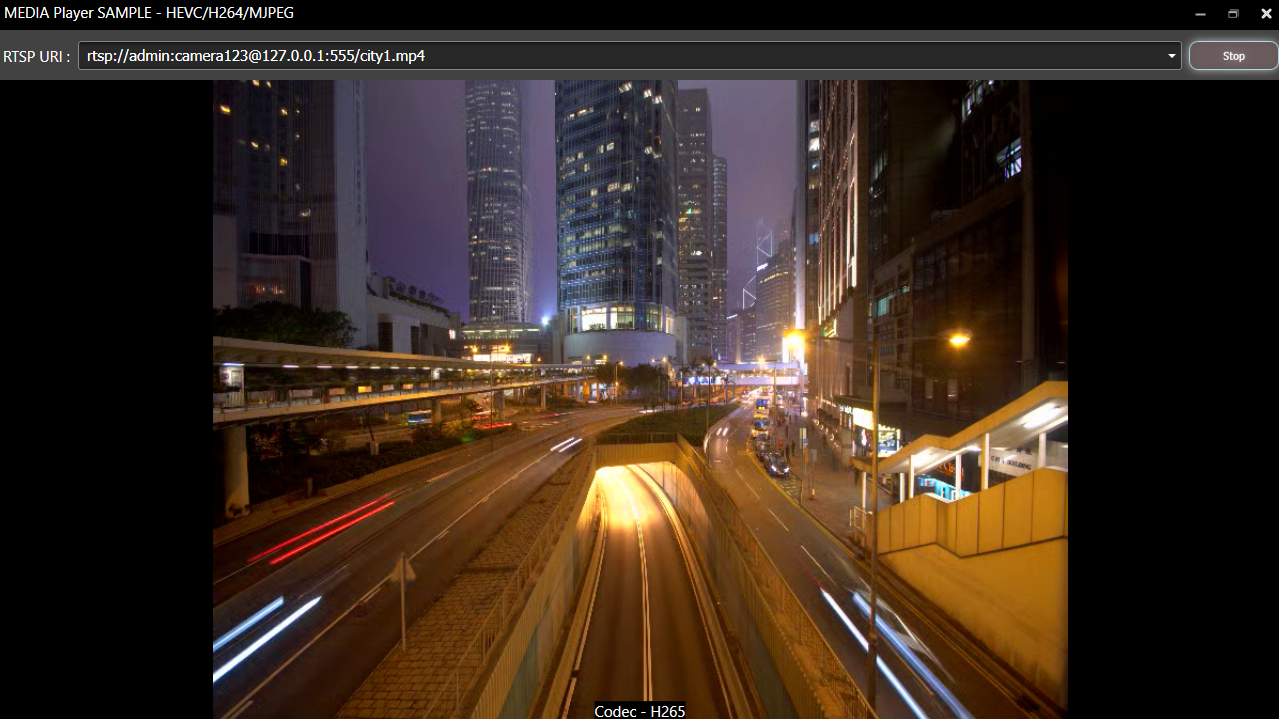
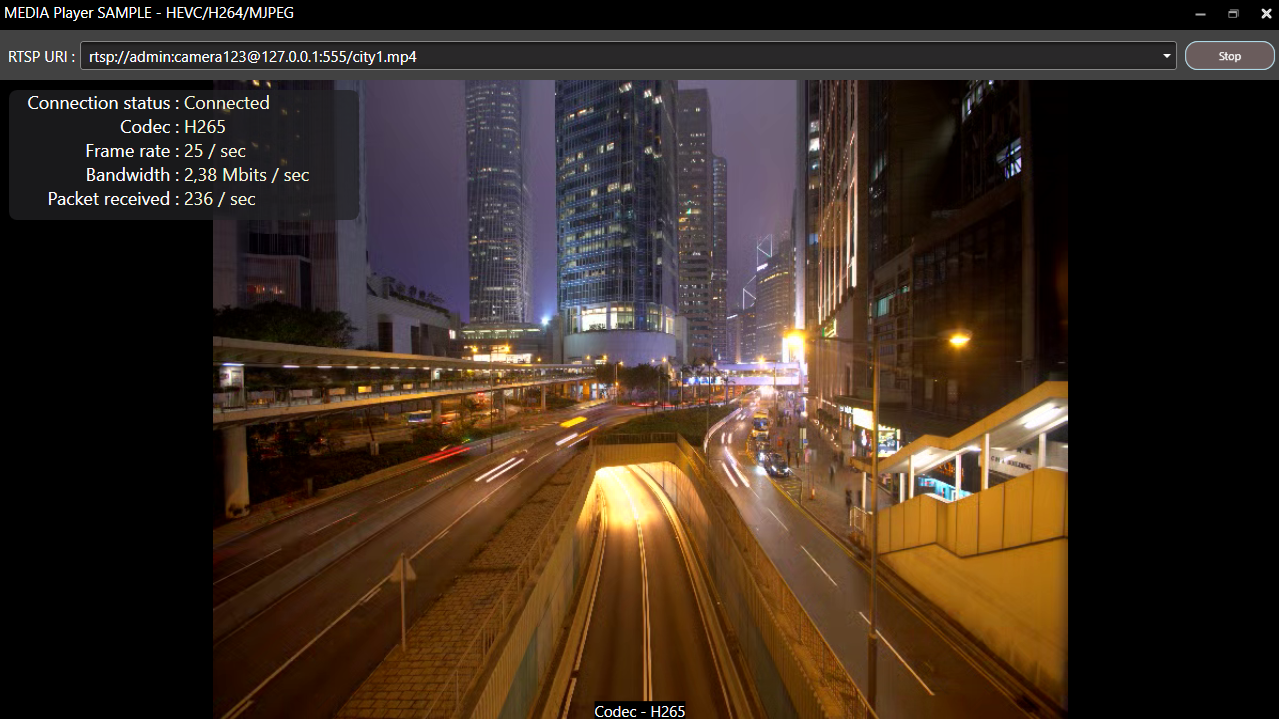
adding realtime stats module

diff --git a/RabbitOM.Player/Controls/NetworkStatistics.xaml b/RabbitOM.Player/Controls/NetworkStatistics.xaml
@@ -20,20 +20,6 @@
         
     </UserControl.Resources>
     
-    <UserControl.CommandBindings>
-
-        <CommandBinding Command="{x:Static local:NetworkStatistics.StartMonitoringCommand}" 
-                        CanExecute="OnCanStartMonitoring" 
-                        Executed="OnStartMonitoring" 
-                        />
-
-        <CommandBinding Command="{x:Static local:NetworkStatistics.StopMonitoringCommand}" 
-                        CanExecute="OnCanStopMonitoring" 
-                        Executed="OnStopMonitoring" 
-                        />
-
-    </UserControl.CommandBindings>
-    
     <Grid>
         
         <Border Background="#BF212124" 
@@ -56,7 +42,7 @@
                                    Foreground="White" 
                                    />
 
-                        <TextBlock Text="Connected" 
+                        <TextBlock Text="{Binding ConnectionStatus,Mode=TwoWay,UpdateSourceTrigger=PropertyChanged,Converter={StaticResource BooleanStringConverter},RelativeSource={RelativeSource AncestorType=UserControl}}"
                                    FontSize="18" 
                                    Foreground="Beige" 
                                    />
@@ -73,7 +59,7 @@
                                    Foreground="White" 
                                    />
 
-                        <TextBlock Text="" 
+                        <TextBlock Text="{Binding Codec,Mode=TwoWay,UpdateSourceTrigger=PropertyChanged,RelativeSource={RelativeSource AncestorType=UserControl}}"
                                    FontSize="18" 
                                    Foreground="Beige" 
                                    />
@@ -82,7 +68,7 @@
 
                     <StackPanel Orientation="Horizontal">
 
-                        <TextBlock Text="Frame rate : " 
+                        <TextBlock  Text="Frame rate : " 
                                     FontSize="18" 
                                     Width="175" 
                                     TextAlignment="Right" 
@@ -90,7 +76,7 @@
                                     Foreground="White" 
                                     />
 
-                        <TextBlock Text="0" 
+                        <TextBlock Text="{Binding FrameCountPerSecond,Mode=TwoWay,UpdateSourceTrigger=PropertyChanged,RelativeSource={RelativeSource AncestorType=UserControl}}"
                                    FontSize="18" 
                                    Foreground="Beige" 
                                    />
@@ -112,7 +98,7 @@
                                    Foreground="White" 
                                    />
 
-                        <TextBlock Text="0" 
+                        <TextBlock Text="{Binding BytesReceivedPerSecond,Mode=TwoWay,UpdateSourceTrigger=PropertyChanged,Converter={StaticResource MemorySizeConverter}, RelativeSource={RelativeSource AncestorType=UserControl}}"
                                    FontSize="18" 
                                    Foreground="Beige" 
                                    />
@@ -134,7 +120,7 @@
                                    Foreground="White" 
                                    />
 
-                        <TextBlock Text="0" 
+                        <TextBlock Text="{Binding PacketReceivedPerSecond,Mode=TwoWay,UpdateSourceTrigger=PropertyChanged, RelativeSource={RelativeSource AncestorType=UserControl}}"
                                    FontSize="18" 
                                    Foreground="Beige" 
                                    />

diff --git a/RabbitOM.Player/MainWindow.xaml b/RabbitOM.Player/MainWindow.xaml
@@ -104,6 +104,12 @@
                               IsChecked="True"
                               />
 
+                    <MenuItem x:Name="menuItemShowStatistics"
+                              Header="Show statistics" 
+                              IsCheckable="True"
+                              IsChecked="False"
+                              />
+
                     <Separator />
 
                     <MenuItem Header="Save Image" 
@@ -136,15 +142,17 @@
                        Foreground="White" 
                        Background="Black"
                        Text="{Binding CodecInfo,Mode=TwoWay,UpdateSourceTrigger=PropertyChanged, RelativeSource={RelativeSource AncestorType=Window}}"
-                       Visibility="{Binding ElementName=menuItemShowCodecInfo, Path=IsChecked,Converter={StaticResource BooleanVisibilityValueConverter}}"
+                       Visibility="{Binding ElementName=menuItemShowStatistics, Path=IsChecked,Converter={StaticResource BooleanVisibilityValueConverter}}"
                        />
 
-            <controls:NetworkStatistics Margin="10,10,0,0" 
+            <controls:NetworkStatistics x:Name="_statistics" 
+                                        Margin="10,10,0,0" 
                                         Width="350"
                                         Height="130"
                                         HorizontalAlignment="Left"
                                         VerticalAlignment="Top"
-                                        Visibility="Collapsed"
+                                        DataSource="{Binding StatisticsDataSource,Mode=OneTime,RelativeSource={RelativeSource AncestorType=Window}}"
+                                        Visibility="{Binding ElementName=menuItemShowStatistics, Path=IsChecked,Converter={StaticResource BooleanVisibilityValueConverter}}"
                                         />
 
         </Grid>

diff --git a/RabbitOM.Player/MainWindow.xaml.cs b/RabbitOM.Player/MainWindow.xaml.cs
@@ -20,7 +20,6 @@ namespace RabbitOM.Player
     using RabbitOM.Streaming.Rtp.Jpeg;
     using RabbitOM.Streaming.Rtsp;
     using RabbitOM.Streaming.Rtsp.Clients;
-    using System.Diagnostics;
 
     public partial class MainWindow : Window
     {
@@ -38,7 +37,7 @@ namespace RabbitOM.Player
         private readonly RtpMediaBuilderProxy _frameBuilder = new RtpMediaBuilderProxy();
         private readonly Decoder _decoder = new FFMpegDecoder();
         private readonly Renderer _renderer = new FFMpegRenderer();
-
+        private readonly NetworkStatisticsDataSource _datasource = new NetworkStatisticsDataSource();
 
 
         public ImageSource Image
@@ -73,8 +72,6 @@ namespace RabbitOM.Player
 
         public ObservableCollection<string> Uris { get; } = new ObservableCollection<string>( ApplicationConfiguration.CreateDefaultUris() );
 
-        public NetworkStatisticsDataSource StatisticsDataSource { get; } = new NetworkStatisticsDataSource();
-
 
         private void OnWindowLoaded( object sender , RoutedEventArgs e )
         {
@@ -85,10 +82,13 @@ namespace RabbitOM.Player
             _client.PacketReceived += OnPacketReceived;
             _frameBuilder.MediaBuilded += OnBuildFrame;
             _decoder.Decoded += OnFrameDecoded;
+            _statistics.DataSource = _datasource;
+            _statistics.StartMonitoring();
         }
 
         private void OnWindowClosing( object sender , System.ComponentModel.CancelEventArgs e )
         {
+            _statistics.StopMonitoring();
             _client.StopCommunication();
             _client.CommunicationStarted -= OnCommunicationStarted;
             _client.CommunicationStopped -= OnCommunicationStopped;
@@ -170,7 +170,7 @@ namespace RabbitOM.Player
         {
             Dispatcher.BeginInvoke( DispatcherPriority.Render , new Action( () =>
             {
-                StatisticsDataSource.Clear();
+                _datasource.Clear();
 
                 StatusInfo = "";
             } ) );
@@ -180,8 +180,8 @@ namespace RabbitOM.Player
         {
             Dispatcher.BeginInvoke( DispatcherPriority.Render , new Action( () =>
             {
-                StatisticsDataSource.SetConnectionStatusOn();
-                StatisticsDataSource.SetCodec( e.TrackInfo.Encoder );
+                _datasource.SetConnectionStatusOn();
+                _datasource.SetCodec( e.TrackInfo.Encoder );
 
                 _frameBuilder.Dispose();
 
@@ -236,7 +236,7 @@ namespace RabbitOM.Player
         {
             Dispatcher.BeginInvoke( DispatcherPriority.Render , new Action( () =>
             {
-                StatisticsDataSource.SetConnectionStatusOff();
+                _datasource.SetConnectionStatusOff();
 
                 StatusInfo = "Connecting - Communication Lost";
                 CodecInfo = "";
@@ -250,13 +250,13 @@ namespace RabbitOM.Player
 
         private void OnPacketReceived( object sender , RtspPacketReceivedEventArgs e )
         {
-            StatisticsDataSource.AddBytesReceived( e.Packet.Data.Length );
+            _datasource.AddBytesReceived( e.Packet.Data.Length );
 
             if ( RtpPacket.TryParse( e.Packet.Data , out var packet ) && _inspector.TryInspect( packet ) )
             {
                 _frameBuilder.AddPacket( packet );
 
-                StatisticsDataSource.IncreasePacketReceived();
+                _datasource.IncreasePacketReceived();
             }
         }
 
@@ -293,7 +293,7 @@ namespace RabbitOM.Player
                 {
                     _renderer.Render( e.Surface );
 
-                    StatisticsDataSource.IncreaseFrameCount();
+                    _datasource.IncreaseFrameCount();
                 }
             }));
         }

diff --git a/RabbitOM.Player/Controls/NetworkStatistics.xaml.cs b/RabbitOM.Player/Controls/NetworkStatistics.xaml.cs
@@ -1,4 +1,5 @@
-using System.Windows;
+using System;
+using System.Windows;
 using System.Windows.Controls;
 using System.Windows.Input;
 using System.Windows.Threading;
@@ -13,7 +14,7 @@ namespace RabbitOM.Player.Controls
 
 
 
-		private readonly DispatcherTimer _timer = new DispatcherTimer();
+		private readonly DispatcherTimer _timer = new DispatcherTimer() { Interval = TimeSpan.FromMilliseconds( 1000 ) };
 
 
 
@@ -118,7 +119,7 @@ namespace RabbitOM.Player.Controls
 
 		public void StartMonitoring()
 		{
-			if ( DataSource == null || ! _timer.IsEnabled )
+			if ( DataSource == null || _timer.IsEnabled )
 			{
 				return;
 			}
@@ -152,26 +153,6 @@ namespace RabbitOM.Player.Controls
 			_timer.Tick -= OnTimerTick;
         }
 
-		private void OnCanStartMonitoring( object sender , CanExecuteRoutedEventArgs e )
-        {
-			e.CanExecute = ! _timer.IsEnabled && DataSource != null;
-        }
-
-		private void OnStartMonitoring( object sender , ExecutedRoutedEventArgs e )
-        {
-			StartMonitoring();
-        }
-
-		private void OnCanStopMonitoring( object sender , CanExecuteRoutedEventArgs e )
-        {
-			e.CanExecute = _timer.IsEnabled;
-        }
-
-		private void OnStopMonitoring( object sender , ExecutedRoutedEventArgs e )
-        {
-			StopMonitoring();
-        }
-
 		private void OnTimerTick( object sender , System.EventArgs e )
         {
             var source = DataSource;
@@ -181,6 +162,7 @@ namespace RabbitOM.Player.Controls
 				return;
 			}
 
+			Codec = source.Codec;
 			ConnectionStatus = source.ConnectionStatus;
 			ConnectionsCount = source.ConnectionsCount;
 			BytesReceivedPerSecond = source.BytesReceivedPerSecond;

diff --git a/RabbitOM.Player/Controls/NetworkStatisticsDataSource.cs b/RabbitOM.Player/Controls/NetworkStatisticsDataSource.cs
@@ -68,7 +68,7 @@ namespace RabbitOM.Player.Controls
 
         public void SetConnectionStatusOn()
         {
-            SetValue( ref _connectionsCount , 1 );
+            SetValue( ref _connectionStatus , 1 );
         }
 
         public void SetConnectionStatusOff()

diff --git a/README.md b/README.md
@@ -159,6 +159,7 @@ This sample demonstrate how to create MJpeg player to reconstruct a complete fra
 
 This sample demonstrate how to create decoder that support different codec using FFMpeg.AutoGen dependencies.
 This sample include an example of how to build a player using decoder and render running in seperate threads.
+This sample include statitics component to display the framerate, the network bandwidth just making a right click.
 
 ![Player](https://github.com/KSAH-42/RabbitOM/blob/master/Resources/Images/RabbitOM.Sample.Client.H264.png)
 
